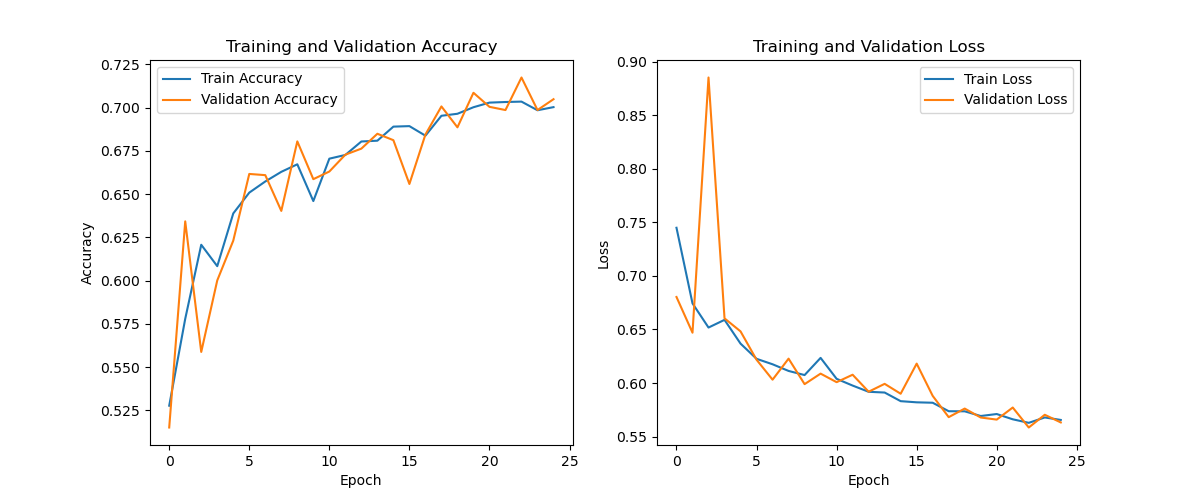
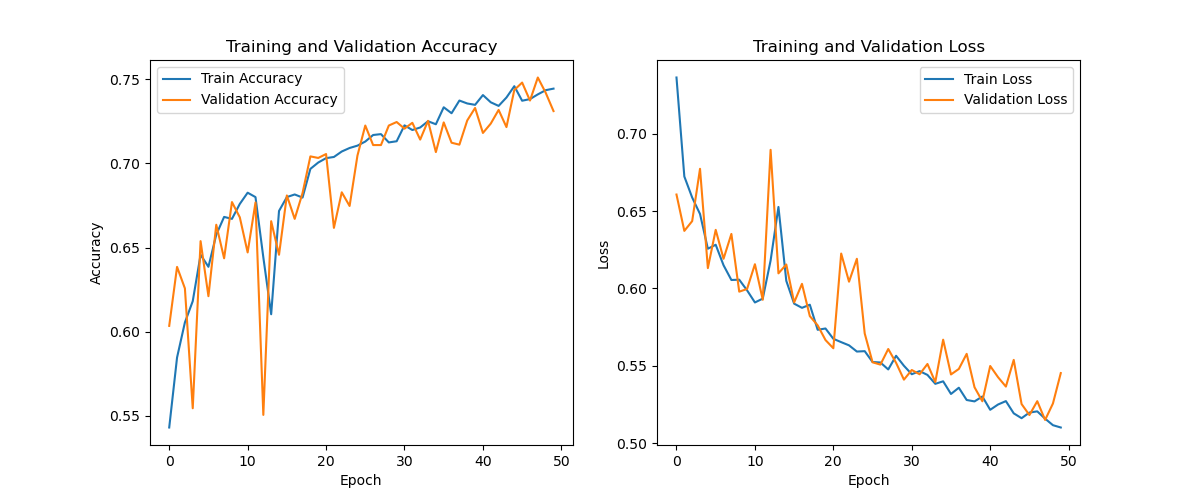
change epochs to 50

diff --git a/recognition/46975115_ViT/utils.py b/recognition/46975115_ViT/utils.py
@@ -13,7 +13,7 @@ def get_hyperparameters():
         
     return {
         'batch_size': 64,
-        'num_epochs': 25,
+        'num_epochs': 50,
         'learning_rate': 1e-4,
     }
 
